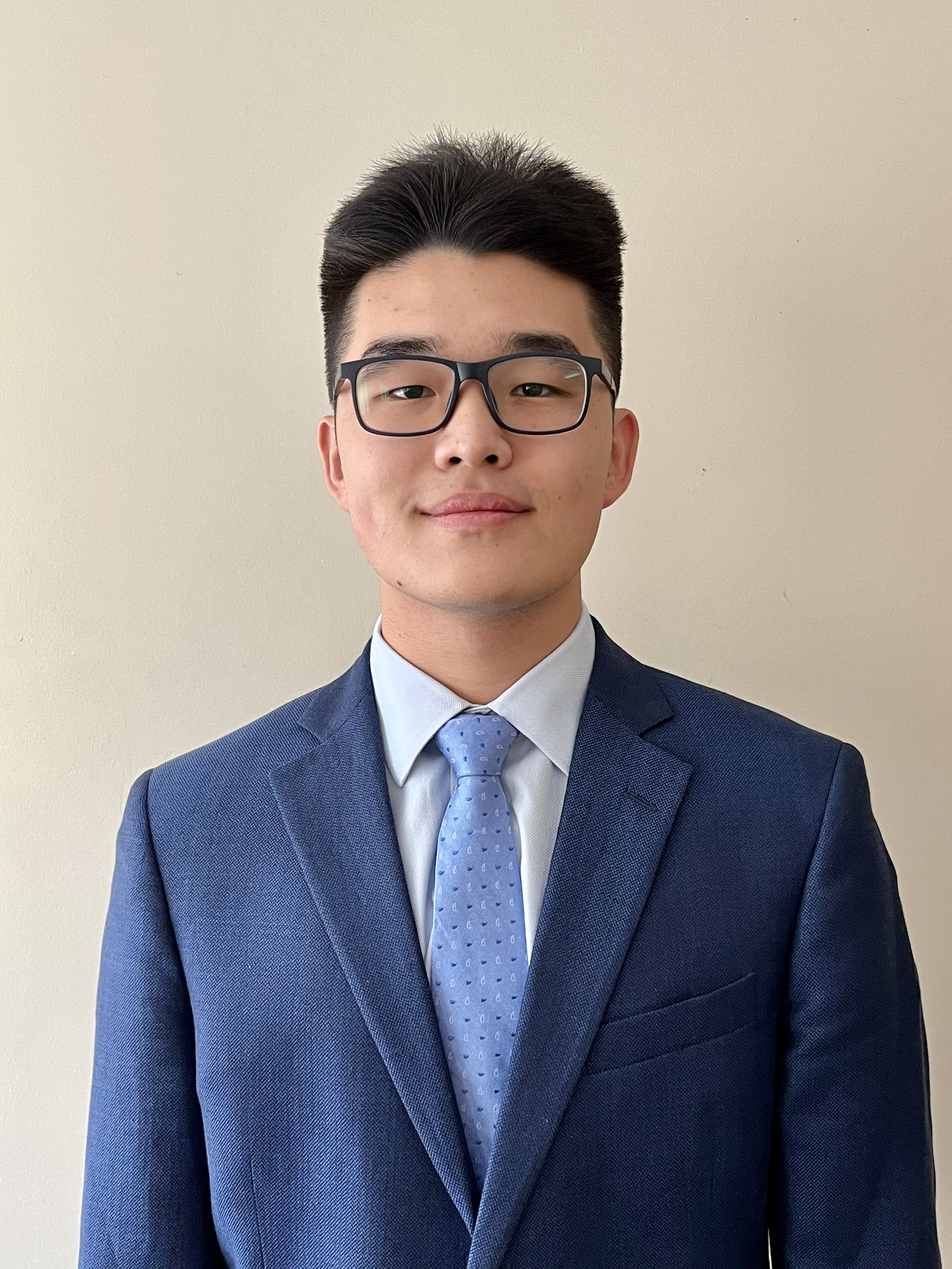
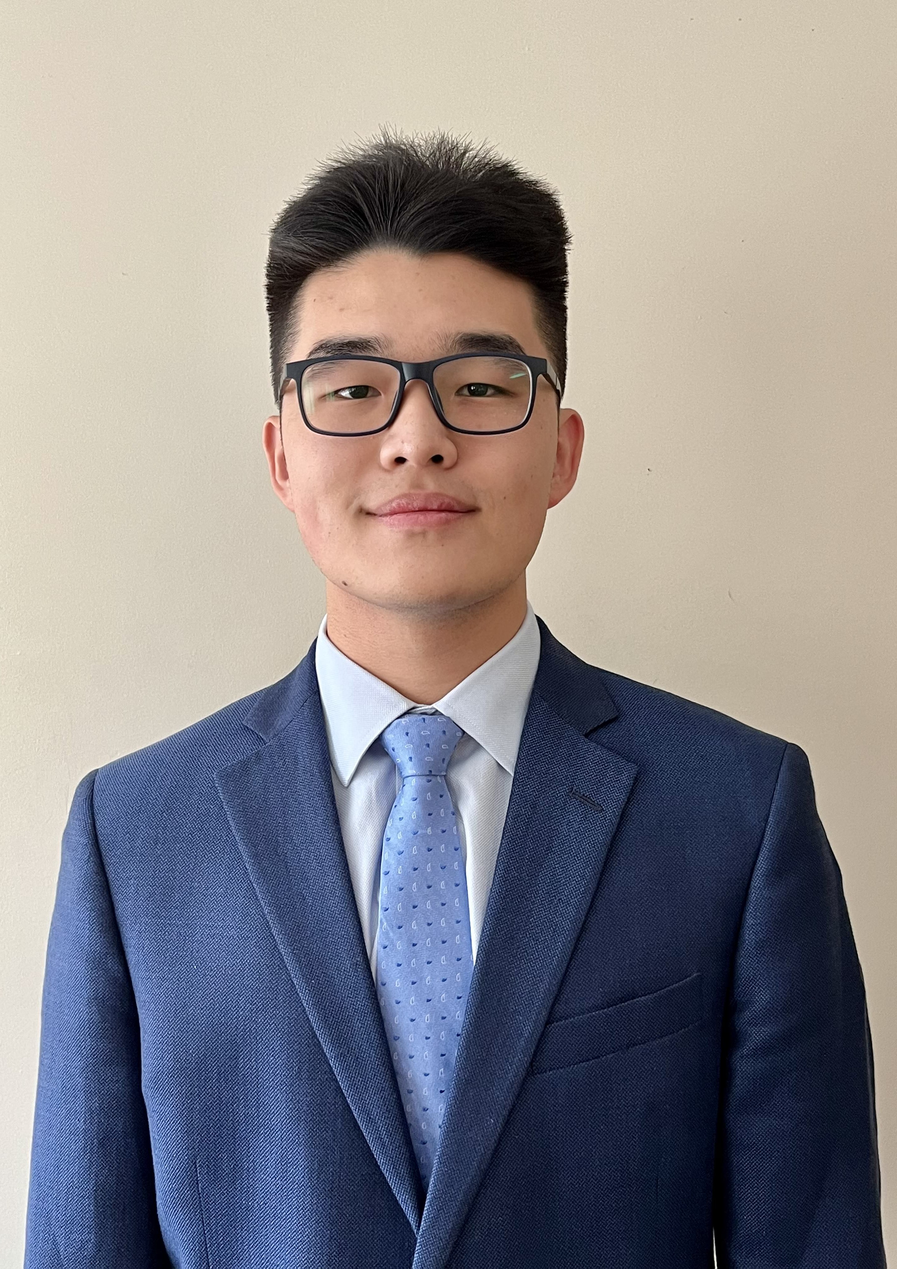
Enhance UI

diff --git a/src/style.css b/src/style.css
@@ -36,6 +36,7 @@ html, body {
 
 .NavBar:hover {
     background-color: rgb(50, 50, 50);
+    box-shadow: 0px 10px 5px 5px rgb(25, 25, 25);
 }
 
 .NavBar img{
@@ -148,11 +149,11 @@ html, body {
     display:block;
     content:'';
     position:absolute;
-    width: 50vh;
+    width: 43vh;
     height:60vh;
-    -moz-box-shadow:inset 0px 0px 6px 6px rgb(0, 0, 0);
-    -webkit-box-shadow:inset 0px 0px 6px 6px rgb(0, 0, 0);
-    box-shadow:inset 0px 0px 6px 6px rgb(0, 0, 0);
+    /* -moz-box-shadow:inset 0px 0px 6px 6px rgb(61, 57, 57);
+    -webkit-box-shadow:inset 0px 0px 6px 6px rgb(64, 61, 61); */
+    box-shadow:inset 0px 0px 10px 10px black;
 }
 
 .Profile .FormalPic {
@@ -160,6 +161,8 @@ html, body {
     margin-left: 20px;
     width: auto;
     height: 60vh;
+    /* position: absolute; */
+    left: 20px;
 }
 
 
@@ -167,11 +170,14 @@ html, body {
 
 .Resume {
     text-align: center;
+    margin-top: 50px;
 }
 
 .Resume iframe {
     height: 100vh;
     width: 50vw;    
+    border: 10px solid rgb(25, 25, 25);
+    border-radius: 5px;
 
 }
 

diff --git a/src/components/Footer.js b/src/components/Footer.js
@@ -3,7 +3,11 @@ import React from "react";
 export default function Footer() {
     return(
         <div className="Footer">
-            <h1>Footer</h1>
+            <h3>Copyright &copy; 2022 Kevin Wei</h3>
+
+            <p>
+                
+            </p>
 
         </div>
     )
